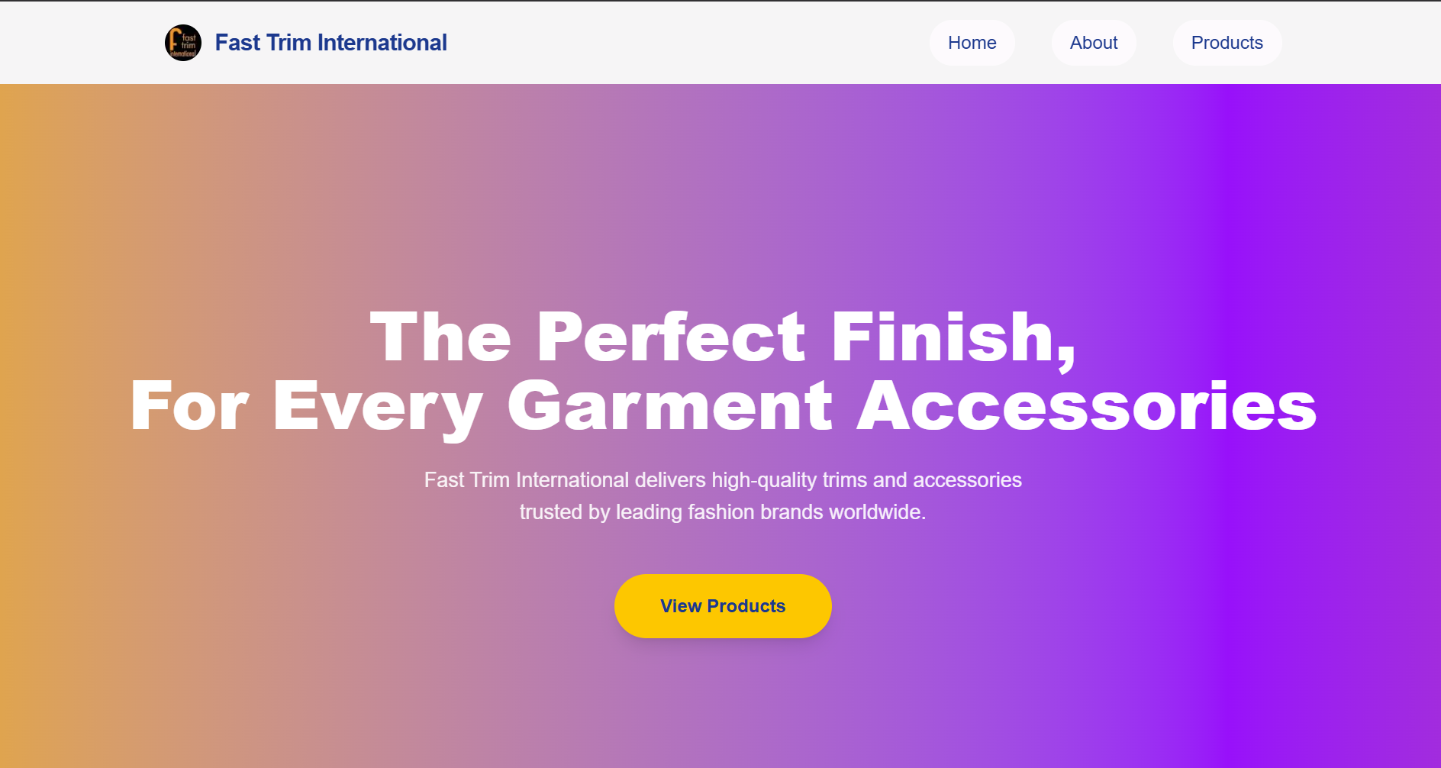
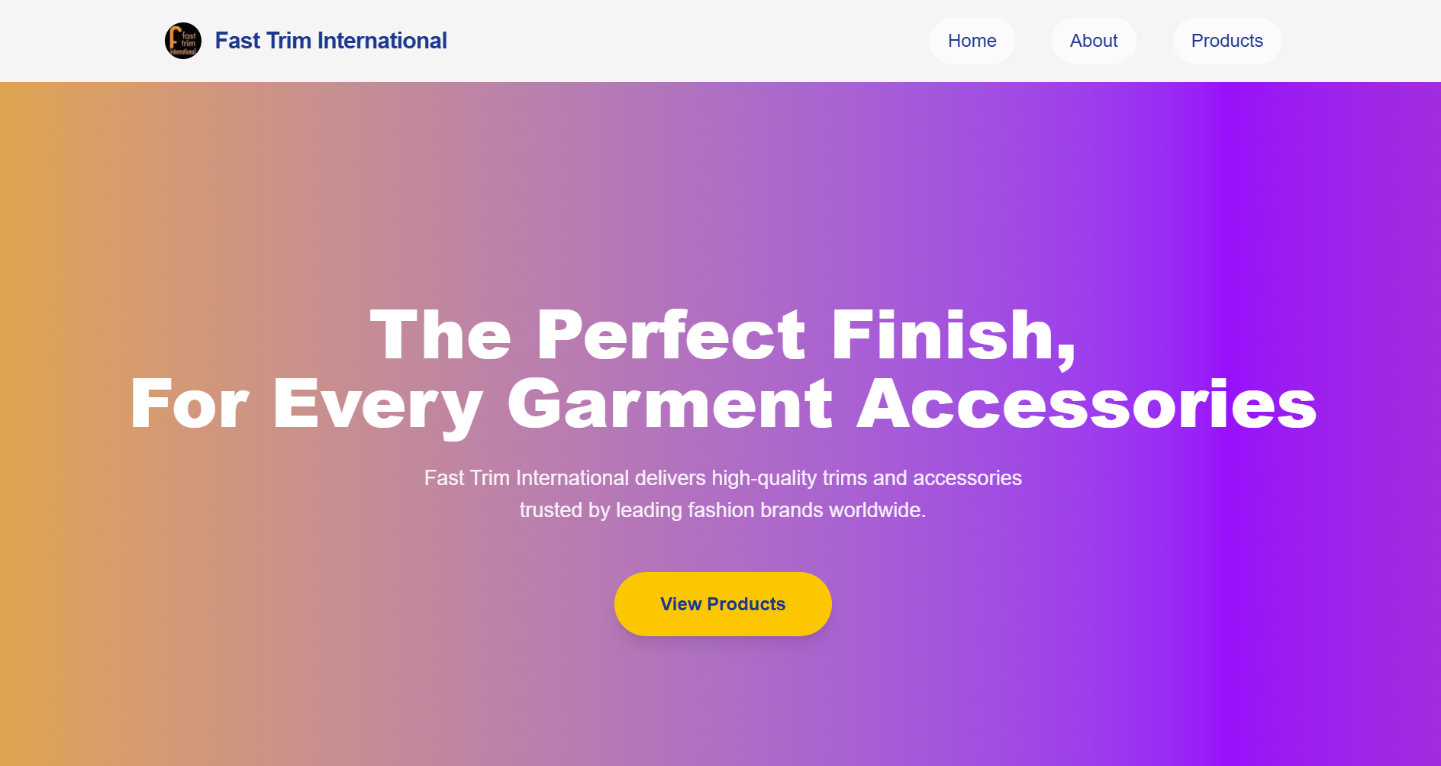
Polish portfolio skills and contact section

diff --git a/index.html b/index.html
@@ -141,6 +141,8 @@
                 <li class="skill-item--mysql"><span class="skill-icon skill-icon--mysql" aria-hidden="true">My</span><span>MySQL</span></li>
                 <li class="skill-item--sqlite"><span class="skill-icon skill-icon--sqlite" aria-hidden="true">Sq</span><span>SQLite</span></li>
                 <li class="skill-item--firebase"><span class="skill-icon skill-icon--firebase" aria-hidden="true">F</span><span>Firebase</span></li>
+                <li class="skill-item--prisma"><span class="skill-icon skill-icon--prisma" aria-hidden="true">Pr</span><span>Prisma</span></li>
+                <li class="skill-item--supabase"><span class="skill-icon skill-icon--supabase" aria-hidden="true">Su</span><span>Supabase</span></li>
               </ul>
             </div>
             <div class="skill-category">
@@ -175,7 +177,7 @@
               <span class="year">May 2026 — Present</span>
               <div>
                 <h4>Programming Hero · AI-Driven Full Stack Web Engineering</h4>
-                <p>Topics include HTML, CSS, HTML5, Tailwind CSS, JavaScript, TypeScript, API handling, and Better Auth.</p>
+                <p>Topics include HTML, CSS, Tailwind CSS, JavaScript, TypeScript, React, API handling, and Better Auth.</p>
               </div>
             </div>
           </div>
@@ -300,9 +302,8 @@
 
       <section id="contact" class="section contact-section">
         <div class="container contact-grid">
-          <div>
+          <div class="section-heading">
             <p class="eyebrow">Contact</p>
-            <h3>Get in touch</h3>
           </div>
           <div class="contact-card">
             <ul class="contact-links">

diff --git a/styles.css b/styles.css
@@ -456,6 +456,8 @@ button {
 .skill-icon--mysql { --skill-accent: #00758f; }
 .skill-icon--sqlite { --skill-accent: #0f80cc; }
 .skill-icon--firebase { --skill-accent: #f0a800; }
+.skill-icon--prisma { --skill-accent: #2d3748; }
+.skill-icon--supabase { --skill-accent: #3ecf8e; }
 .skill-icon--git { --skill-accent: #f05032; }
 .skill-icon--gradle { --skill-accent: #02303a; }
 .skill-icon--jupyter { --skill-accent: #f37626; }
@@ -475,6 +477,8 @@ button {
 .skill-item--mysql { --skill-accent: #00758f; }
 .skill-item--sqlite { --skill-accent: #0f80cc; }
 .skill-item--firebase { --skill-accent: #f0a800; }
+.skill-item--prisma { --skill-accent: #2d3748; }
+.skill-item--supabase { --skill-accent: #3ecf8e; }
 .skill-item--git { --skill-accent: #f05032; }
 .skill-item--gradle { --skill-accent: #02303a; }
 .skill-item--jupyter { --skill-accent: #f37626; }
@@ -663,12 +667,12 @@ button {
 
 .contact-grid {
   display: grid;
-  grid-template-columns: 0.9fr 1.1fr;
-  align-items: center;
-  gap: 2rem;
+  grid-template-columns: minmax(0, 900px);
+  justify-content: center;
 }
 
 .contact-card {
+  width: 100%;
   background: #fff;
   border: 1px solid var(--border);
   border-radius: 20px;
@@ -679,6 +683,7 @@ button {
 .contact-card ul {
   list-style: none;
   display: grid;
+  grid-template-columns: repeat(2, minmax(0, 1fr));
   gap: 0.8rem;
 }
 
@@ -1043,6 +1048,10 @@ body[data-theme="dark"] .skill-icon {
   }
 
   .skills-grid {
+    grid-template-columns: 1fr;
+  }
+
+  .contact-card ul {
     grid-template-columns: 1fr;
   }
 
